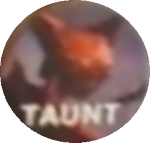
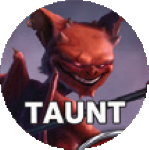
#240 - Add in Purple and Grey Control Markers
This is for if we want to automate adding V'Tar to Mages all of the
supported Marker colors have a corresponding and supported (in game)
Control Marker Color.

Also added in better Skelax Taunt Marker

diff --git a/GameDatabase/9acef3d0-efa8-4d3f-a10c-54812baecdda/scripts/actions.py b/GameDatabase/9acef3d0-efa8-4d3f-a10c-54812baecdda/scripts/actions.py
@@ -1,5 +1,5 @@
 ###########################################################################
-##########################    v1.12.7.0     #######################################
+##########################    v1.13.0.0     #######################################
 ###########################################################################
 import time
 import re
@@ -33,6 +33,9 @@ ControlMarkerBlue = ("Blue Control Marker", "da724182-3695-4124-becc-928eb870c5d
 ControlMarkerGreen = ("Green Control Marker", "e97408e7-985b-46d9-a5e7-98ffb4a3f587" )
 ControlMarkerRed = ("Red Control Marker", "c56839d2-46f4-49a8-85e4-3838e7f09cc2" )
 ControlMarkerYellow = ("Yellow Control Marker", "fe2adfab-4cda-4a1d-843a-84865747ff98" )
+ControlMarkerPurple = ("Purple Control Marker", "5d6e5424-031b-44d4-9e0e-eb93f29baf6d" )
+ControlMarkerGrey = ("Grey Control Marker", "1b9d7c43-9cd3-4218-8451-4fd7edfc8a4f" )
+
 Cripple = ("Cripple", "82df2507-4fba-4c81-a1de-71e70b9a16f5" )
 CrushToken = ("Crush Token", "d7472637-7c6d-4593-bc16-5975155c2926" )
 Damage = ("Damage", "00000000-0000-0000-0000-000000000004" )
